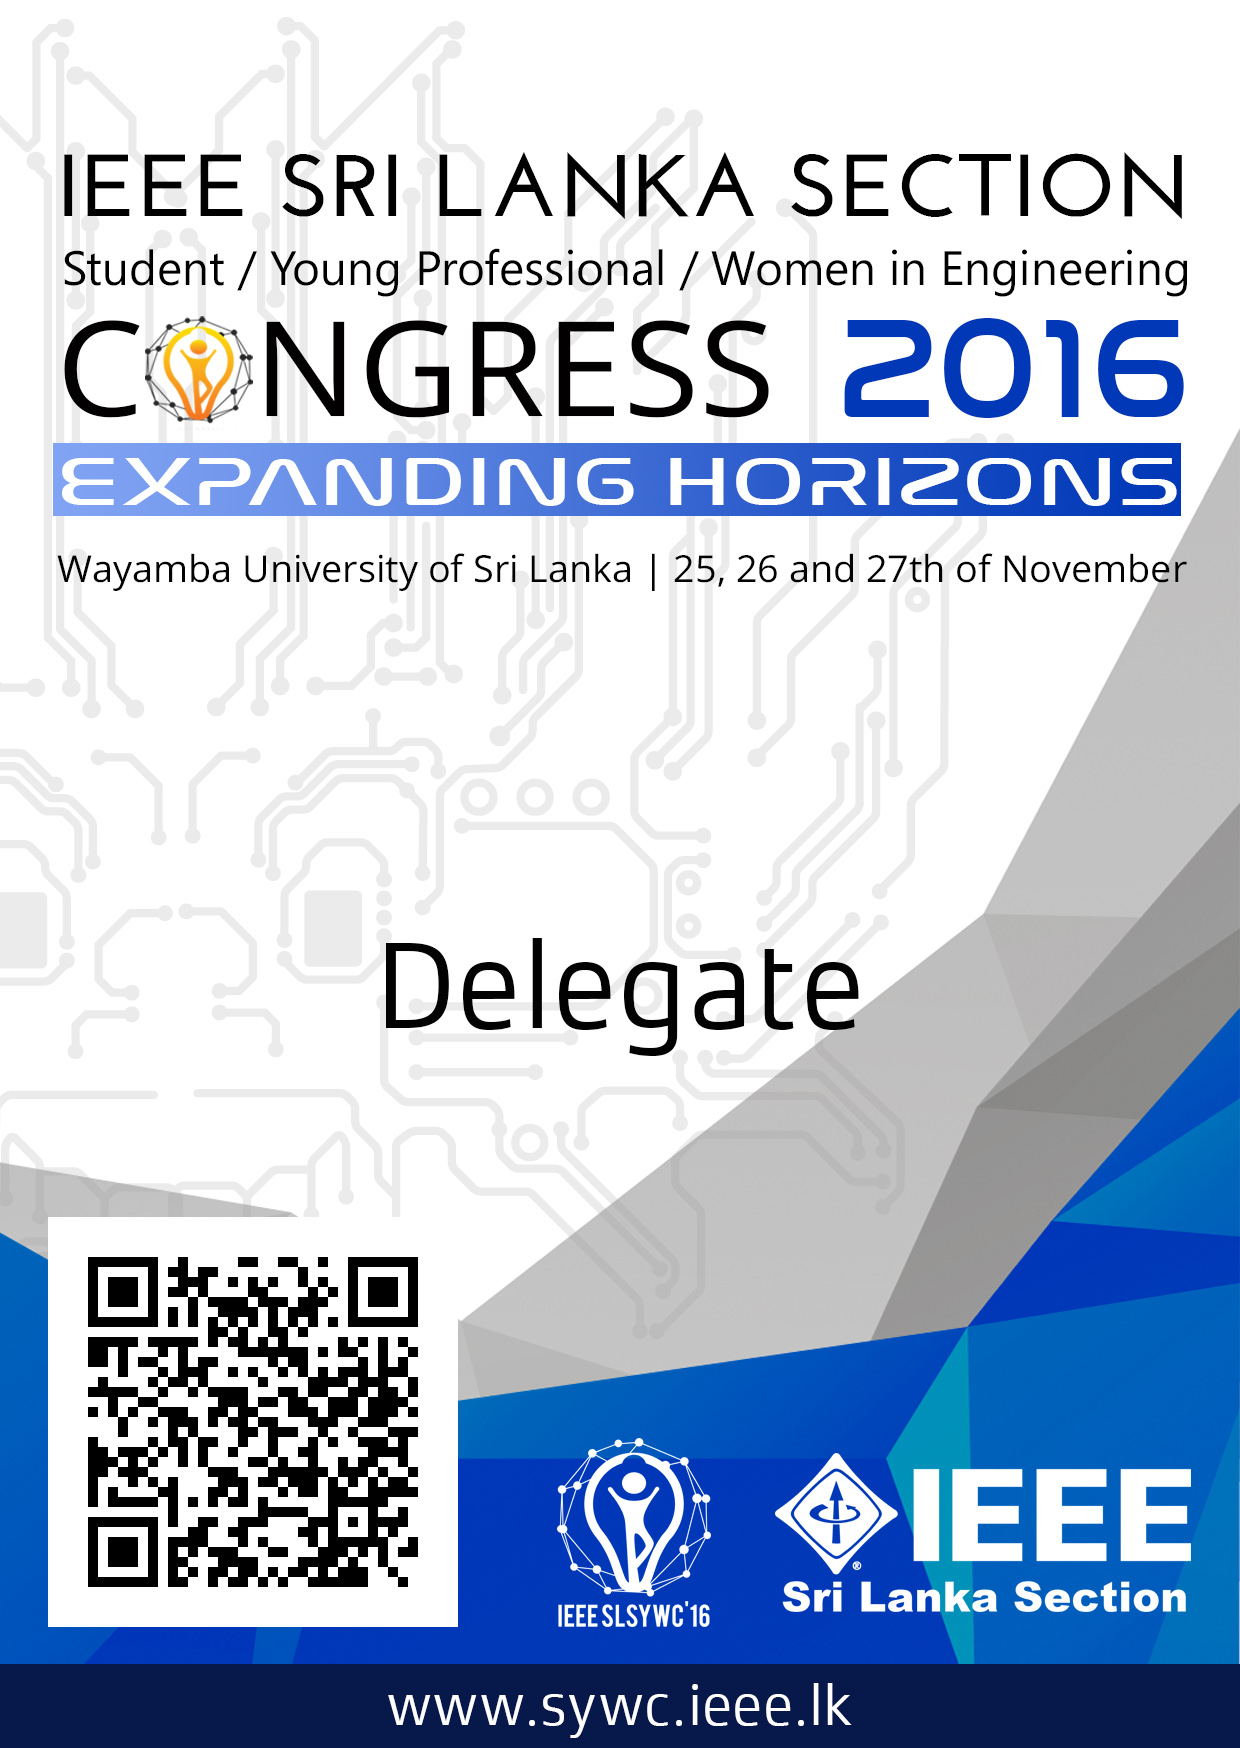
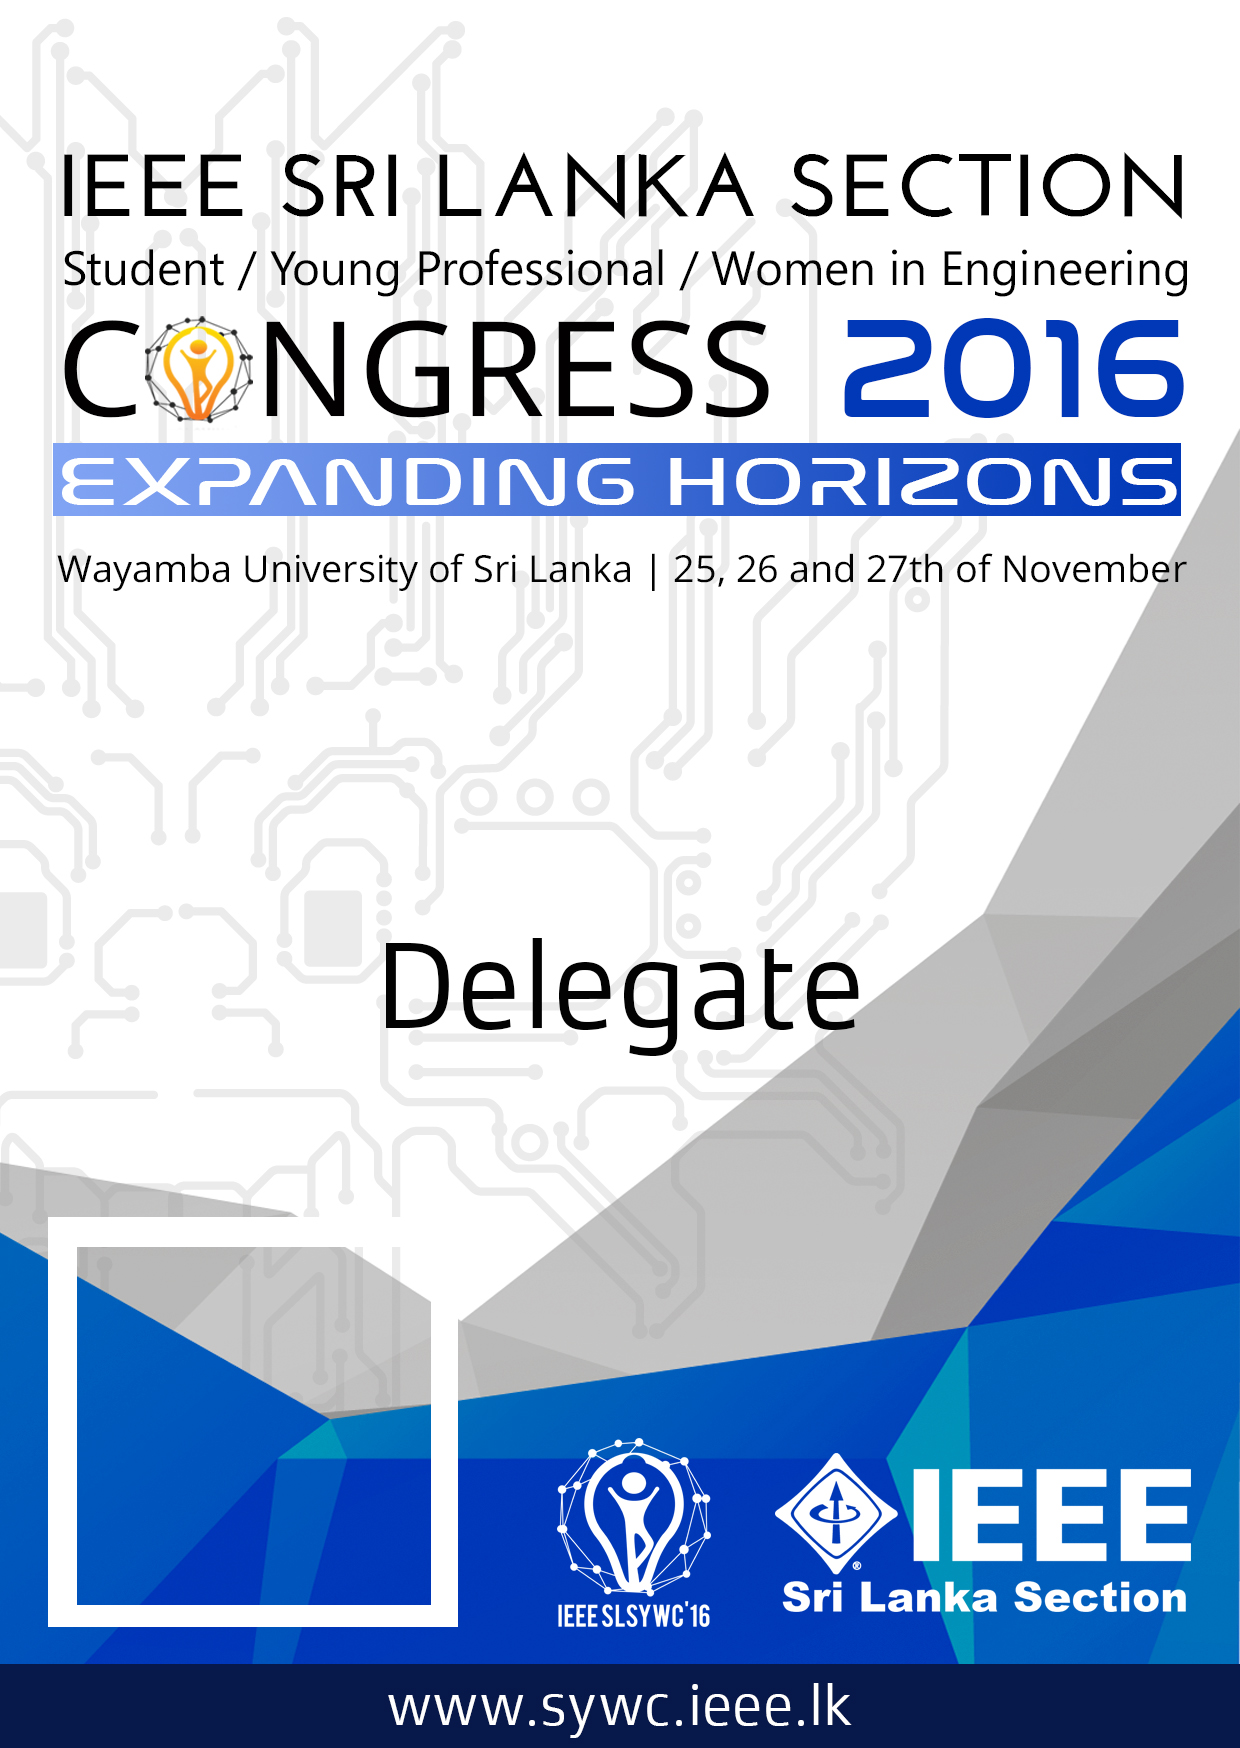
Final Version. Added QR image creator and embed it to the tag and save to file. Added option to add custom fonts to text

Changed region(s): [[0.0613, 0.7105, 0.3677, 0.9268]]

diff --git a/src/imagetextconverter/ImageTextConverter.java b/src/imagetextconverter/ImageTextConverter.java
@@ -10,6 +10,7 @@ import java.io.File;
 import java.io.IOException;
 import javax.imageio.ImageIO;
 import java.awt.Font;
+import java.awt.GraphicsEnvironment;
 import java.io.BufferedReader;
 import java.io.FileReader;
 import java.util.ArrayList;
@@ -17,7 +18,7 @@ import java.util.List;
 
 /**
  *
- * @author RamithaA
+ * @author ChamathPali
  */
 public class ImageTextConverter {
 
@@ -25,11 +26,14 @@ public class ImageTextConverter {
      * @param args the command line arguments
      */
     private static int imageCounter = 0;
+    private static String fontName ="Arial";
+    private static int fontSize =105;
 
     public static void main(String[] args) throws IOException {
 
         File templateFile = new File("template.jpg");
         String fileNameListPath = "names.txt";
+        String qrDataListPath = "qr_data.txt";
                 
         // File reading
         BufferedReader in = new BufferedReader(new FileReader(fileNameListPath));
@@ -39,22 +43,35 @@ public class ImageTextConverter {
             nameList.add(currentName);
         }
         
-        // Iterating and sending for names for image modification
-        for (String currentNameInFile : nameList){
-            printNameToImage(currentNameInFile, templateFile);
+        BufferedReader inQ = new BufferedReader(new FileReader(qrDataListPath));
+
+        String currentData;
+        List<String> dataList = new ArrayList<String>();
+        while ((currentData = inQ.readLine()) != null) {
+            dataList.add(currentData);
         }
+        
+        
+        // Iterating and sending for names for image modification
+        for (int i=0; i<dataList.size();i++){
+            printNameToImage(nameList.get(i), templateFile,dataList.get(i));
+        }
+        
+        System.out.println("Total Saved : "+(imageCounter));
+        
     }
 
-    private static void printNameToImage(String fullName, File templateImageFile) throws IOException {
+    private static void printNameToImage(String fullName, File templateImageFile,String qrData) throws IOException {
 
         final BufferedImage image = ImageIO.read(templateImageFile);
         Graphics g = image.getGraphics();
         FontRenderContext frc = new FontRenderContext(null, true, true);
-
+        String outName = fullName;
         // The border dimensions of the complete String
         Rectangle r = new Rectangle(image.getWidth(), image.getHeight());
         Font font = g.getFont().deriveFont(100f);
-        Rectangle2D r2D = font.getStringBounds(fullName, frc);
+        Font f = new Font(fontName,Font.PLAIN, fontSize);
+        Rectangle2D r2D = f.getStringBounds(fullName, frc);
         int rWidth = (int) Math.round(r2D.getWidth());
         int rHeight = (int) Math.round(r2D.getHeight());
         int rX = (int) Math.round(r2D.getX());
@@ -62,12 +79,12 @@ public class ImageTextConverter {
 
         // Common characteristics
         g.setColor(Color.black);
-        g.setFont(font);
+        g.setFont(f);
 
         if (rWidth < (image.getWidth() - 75)) {
             // Process if the name can be added in one line
             int a = (r.width / 2) - (rWidth / 2) - rX;
-            int b = ((r.height / 2) - (rHeight / 2) - rY - 60);
+            int b = ((r.height / 2) - (rHeight / 2) - rY - 100);
 
             g.drawString(fullName, r.x + a, r.y + b);
         } else {
@@ -98,8 +115,14 @@ public class ImageTextConverter {
             g.drawString(part1, r.x + a1, r.y + b1);
             g.drawString(part2, r.x + a2, r.y + b2);
         }
+        
+        g.drawImage( QRgenerator.generateQR(qrData), 55, 1220, null );
+
         g.dispose();
-        ImageIO.write(image, "jpg", new File("output_image" + (++imageCounter) + ".jpg"));
+        ImageIO.write(image, "jpg", new File(outName + "_"+qrData + ".jpg"));
+        
+        System.out.println("Saved: "+outName + "_"+qrData + ".jpg");
+        imageCounter++;
     }
 
 }

diff --git a/src/imagetextconverter/QRgenerator.java b/src/imagetextconverter/QRgenerator.java
@@ -1,0 +1,74 @@
+/*
+ * To change this license header, choose License Headers in Project Properties.
+ * To change this template file, choose Tools | Templates
+ * and open the template in the editor.
+ */
+package imagetextconverter;
+
+/**
+ *
+ * @author Chamath
+ */
+import java.awt.Color;
+import java.awt.Graphics2D;
+import java.awt.image.BufferedImage;
+import java.io.File;
+import java.io.IOException;
+import java.util.EnumMap;
+import java.util.Map;
+ 
+import javax.imageio.ImageIO;
+ 
+import com.google.zxing.BarcodeFormat;
+import com.google.zxing.EncodeHintType;
+import com.google.zxing.WriterException;
+import com.google.zxing.common.BitMatrix;
+import com.google.zxing.qrcode.QRCodeWriter;
+import com.google.zxing.qrcode.decoder.ErrorCorrectionLevel;
+ 
+// Used from https://github.com/SurfEdge/java-bulk-qr-generator
+
+public class QRgenerator {
+	  
+	
+	public static BufferedImage generateQR(String data){
+		int size = 400;
+		try {
+			
+			Map<EncodeHintType, Object> hintMap = new EnumMap<EncodeHintType, Object>(EncodeHintType.class);
+			hintMap.put(EncodeHintType.CHARACTER_SET, "UTF-8");
+			
+			// Now with zxing version 3.2.1 you could change border size (white border size to just 1)
+			hintMap.put(EncodeHintType.MARGIN, 1); /* default = 4 */
+			hintMap.put(EncodeHintType.ERROR_CORRECTION, ErrorCorrectionLevel.L);
+ 
+			QRCodeWriter qrCodeWriter = new QRCodeWriter();
+			BitMatrix byteMatrix = qrCodeWriter.encode(data, BarcodeFormat.QR_CODE, size,
+					size, hintMap);
+			int width = byteMatrix.getWidth();
+			BufferedImage image = new BufferedImage(width, width,
+					BufferedImage.TYPE_INT_RGB);
+			image.createGraphics();
+ 
+			Graphics2D graphics = (Graphics2D) image.getGraphics();
+			graphics.setColor(Color.WHITE);
+			graphics.fillRect(0, 0, width, width);
+			graphics.setColor(Color.BLACK);
+ 
+			for (int i = 0; i < width; i++) {
+				for (int j = 0; j < width; j++) {
+					if (byteMatrix.get(i, j)) {
+						graphics.fillRect(i, j, 1, 1);
+					}
+				}
+			}
+                    return image;
+                        //ImageIO.write(image, fileType, myFile);
+		} catch (WriterException e) {
+			e.printStackTrace();
+                      
+                }
+		System.out.println("\nQR For ."+data+" Generated");
+                return null;
+	}
+}
